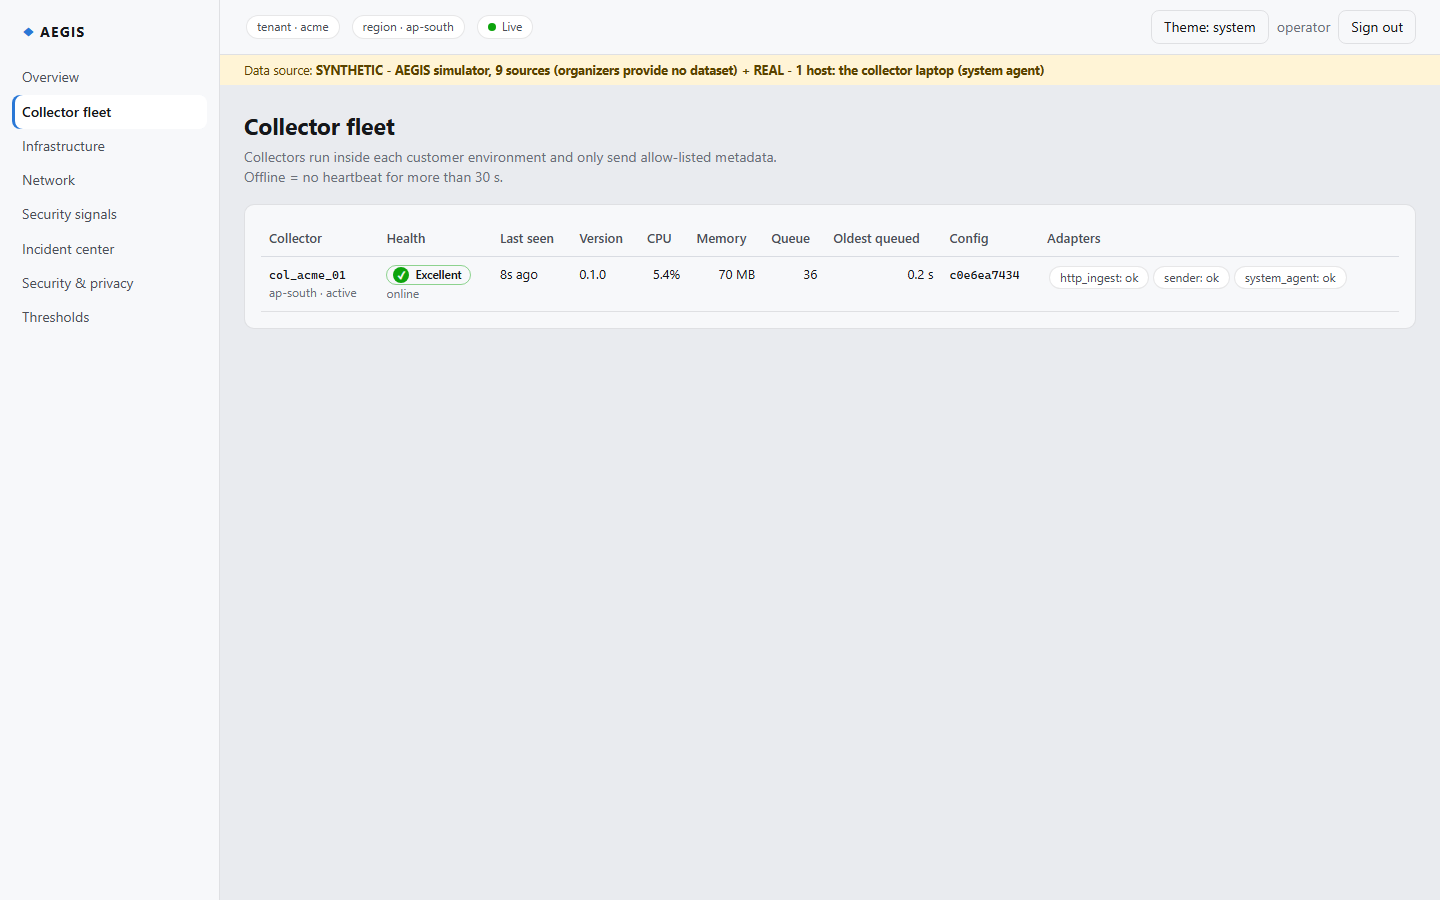
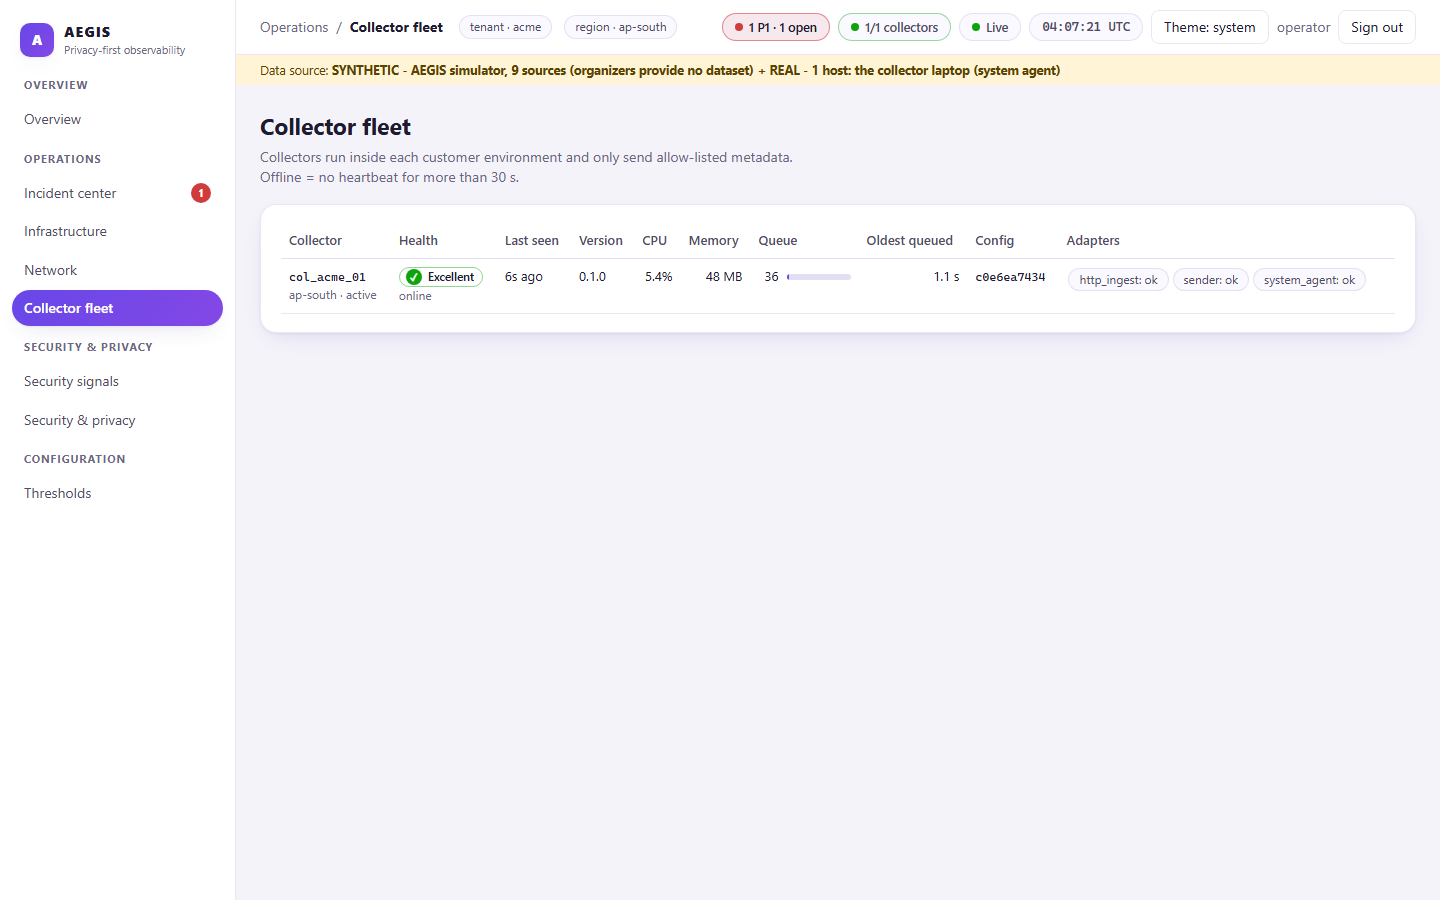
Quick wins live (dashboard 69fce19): e2e results, screenshots, K36 slow incident summary

diff --git a/docs/KNOWN_ISSUES.md b/docs/KNOWN_ISSUES.md
@@ -37,3 +37,4 @@
 | K33 | Notification pull every 5 s -> device alert latency up to ~5 s + incident detection time | Not instant push | Long-poll or WebSocket for collectors if needed | ACCEPTED |
 | K34 | System agent latency is TCP connect time to 1.1.1.1/8.8.8.8:443 (ICMP needs admin on Windows); packet loss = failed connects / attempts | Approximations of network health, labelled as such | Configurable probe targets (e.g. the gateway); ICMP where privileged | ACCEPTED |
 | K35 | The real laptop source is never retired: when the agent or collector is off it stays Poor (NO_DATA), and real CPU/memory bursts open unscripted incidents (memory idles at 85-88 % vs Fair 88 %) | Extra incidents possible during a demo | Close unneeded apps; source retirement/maintenance mode is future work | ACCEPTED |
+| K36 | `GET /api/v1/aiops/summary` (and other incident reads) first call `aiops.store.flush()`, which writes pending alerts/incidents ONE ROW PER ROUND TRIP to Supabase Mumbai from the US VPS (~0.2-0.3 s each). With many alert updates (real host source) the request can take several seconds; dashboard KPI cards and the header incident pill show 'loading' until it returns | Slow incident figures on the dashboard; no data loss | Batch the upserts (one multi-row statement per table) and/or stop flushing inside read requests | OPEN |

diff --git a/docs/TEST_RESULTS.md b/docs/TEST_RESULTS.md
@@ -108,3 +108,4 @@
 | 8 | **Real agent live vs production**: 587 real samples, sender ok; laptop payload SaaS hash == collector hash, 0 sensitive values; real CPU load -> production incident; device alert re-identified as the real host name locally | PASSED | `phase8_system_agent_live.json` |
 | 8 | **Live Playwright on backend 24cbdce + dashboard bec7b74 (new data-source banner), system agent ON: 11/11** | PASSED (2026-11-21 ~08:40 IST) | `scripts/e2e_live.py` |
 | 8 | **Dashboard quick wins (design from the team concept)**: KPI cards render only API values (shares, priorities, noise ratio) and placeholders while data is missing; rings decorative (aria-hidden, never role=img); agent tests made timing-safe (Windows 15 ms clock). Gate 241/241 normal and CI parity, web 24/24 | PASSED | `ui.test.tsx` (2 new), `check.ps1` |
+| 8 | **Live Playwright on dashboard 69fce19 (quick wins)**: 9/9 @live PASSED; @offline FAILED because a demo.ps1 session (collector on 9100 since 08:46 IST) was running, so the test collector never started (same interference as earlier; not a product defect). Screenshots reviewed: new navigation, header pills, KPI rings, queue bar and egress pipeline render correctly; KPI incident figures sometimes still loading at capture time (K36) | PARTIAL (interference) | `scripts/e2e_live.py`, screenshots |
